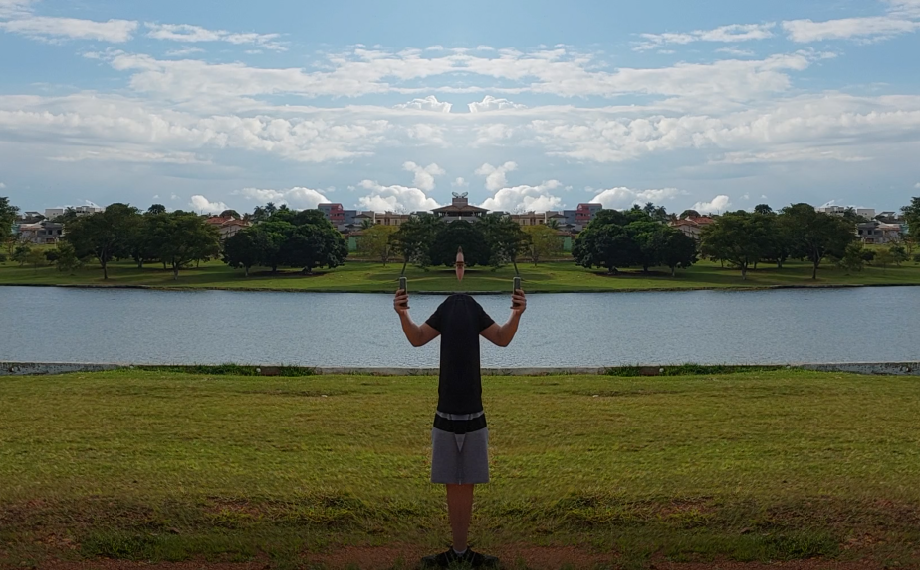
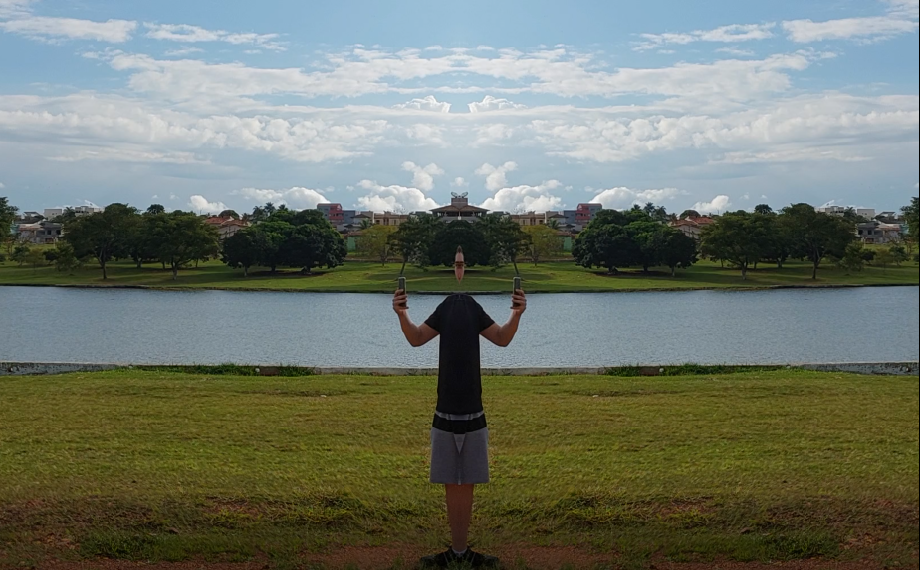
Image middle mirrored with loops

diff --git a/imageFunctions.py b/imageFunctions.py
@@ -3,10 +3,19 @@ import numpy as np
 
 
 def midmirror_img(img):
-    for channel in range(np.shape(img)[2]):
-        for x in range(np.shape(img)[1]):
-            img[:, x, channel] = img[:, np.shape(img)[1]-1-x, channel]
-    return img
+    midmirr = np.zeros_like(img)
+
+    for z in range(np.shape(img)[2]):
+        for x in range(int(np.shape(img)[1]/2)):
+            for y in range(np.shape(img)[0]):
+                midmirr[y, int(np.shape(img)[1]/2 - 1) + x, z] = img[y, int(np.shape(img)[1]/2 - 1) + x, z]
+                midmirr[y, int(np.shape(img)[1] / 2 - 1) - x, z] = img[y, int(np.shape(img)[1] / 2 - 1) + x, z]
+    cv2.imshow("", midmirr)
+    cv2.waitKey(0)
+    print(img)
+    print("-------")
+    print(midmirr)
+    return midmirr
 
 
 def reverse_img(img):
@@ -40,6 +49,7 @@ def rotate90(img):
 
 test_img = cv2.imread("testImg.png")
 cv2.imwrite("reversed.png", reverse_img(test_img))
+cv2.imwrite("centerMirrored.png", midmirror_img(test_img))
 
 
 
